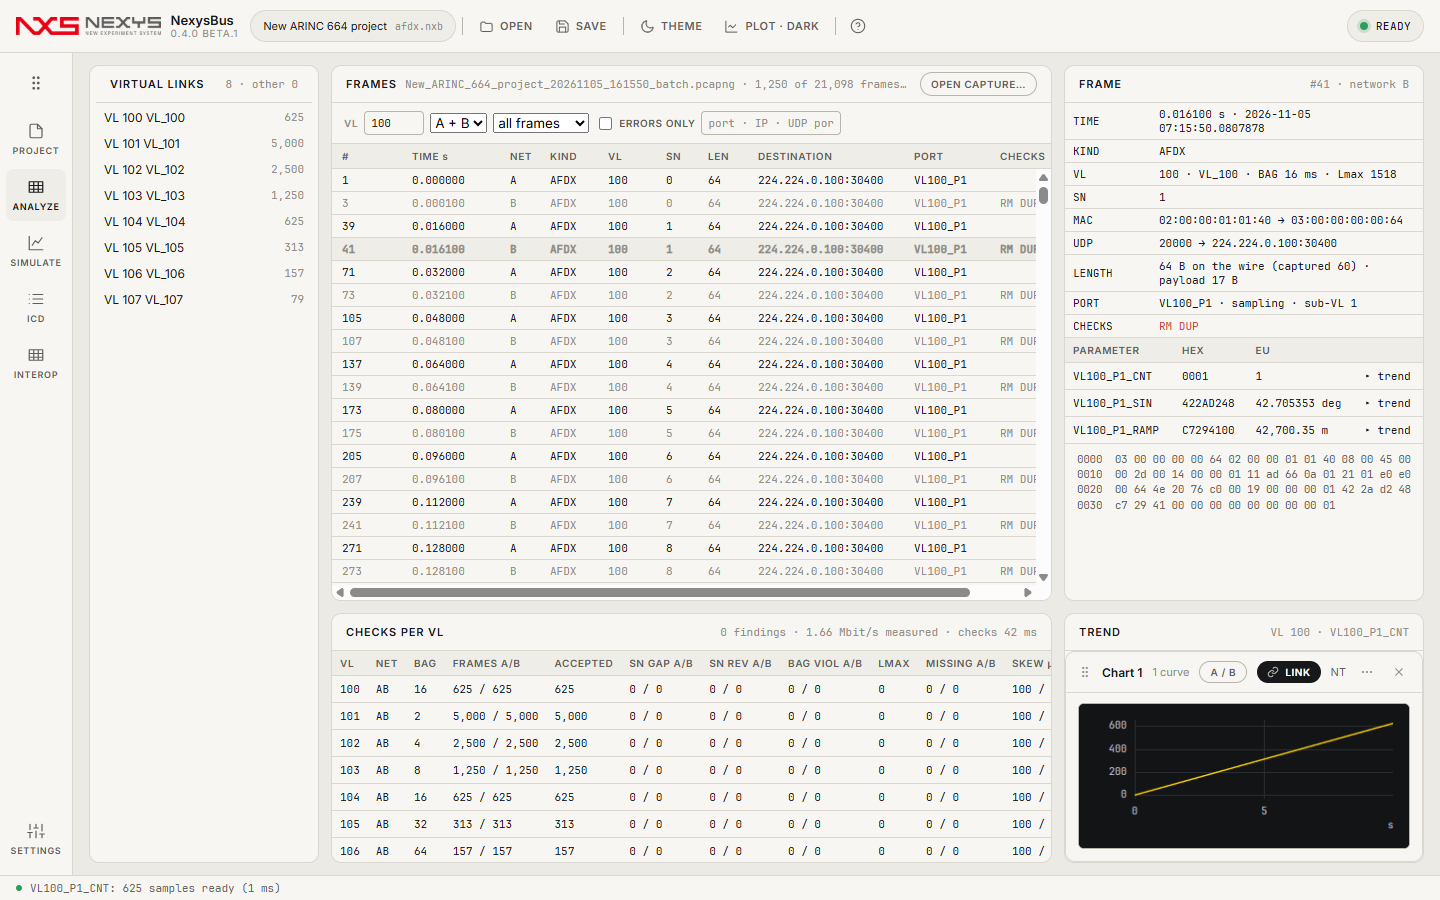
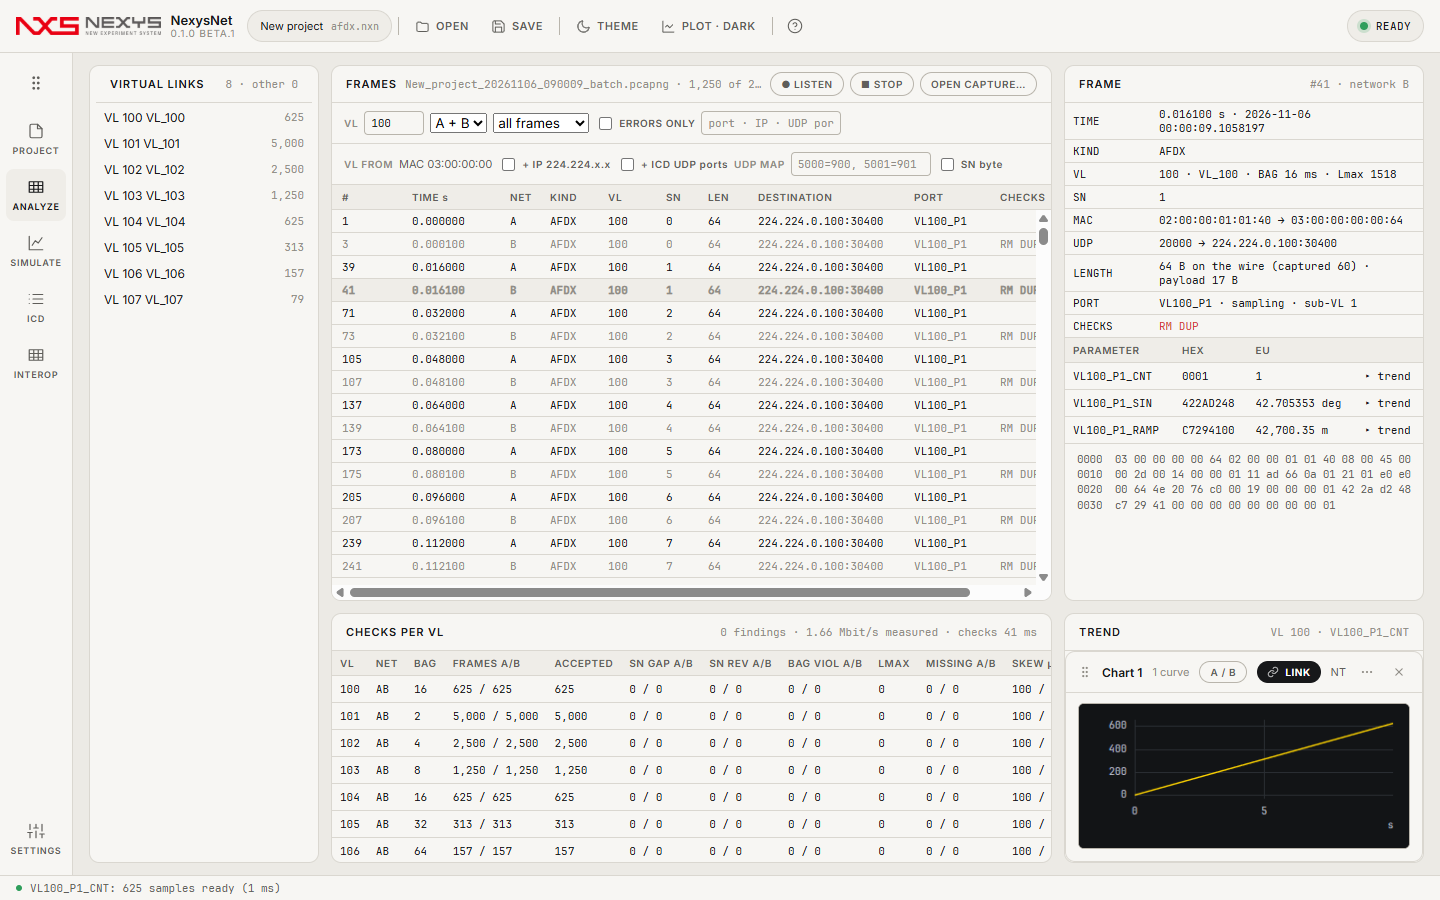
NexysNet name in the INTEROP headers; user-guide screenshots retaken with NexysNet 0.1.0-beta.1
INTEROP card titles read PEER -> NEXYSNET / NEXYSNET -> PEER (were NEXYSBUS); pcapng files
written by NexysNet carry NexysNet as the writing application (core). Guide images 15-23 and
the README project shot come from NexysNet --afdx / --interop / --startmem runs (29/29, 8/8).

diff --git a/app/web/src/afdx.ts b/app/web/src/afdx.ts
@@ -229,9 +229,9 @@ export class AfdxAnalyzePage {
 
 // ============================================================================ INTEROP
 export class AfdxInteropPage {
-  el = h(`<div class="afdx-iop"><section class="card peer"><div class="card-h"><span class="t">PEER → NEXYSBUS · AUTOMATIC</span><span class="m" data-cm></span><div class="acts"><button class="pill h24" data-a="openCap">OPEN CAPTURE…</button><button class="pill h24" data-a="recheck">RE-CHECK</button><button class="pill h24" data-a="wireshark" title="Wireshark profile + dissector for this ICD (VL / SN / network columns, A/B colours, parameter decode)">WIRESHARK PROFILE…</button><button class="pill h24 primary" data-a="export">EXPORT REPORT…</button></div></div>
+  el = h(`<div class="afdx-iop"><section class="card peer"><div class="card-h"><span class="t">PEER → NEXYSNET · AUTOMATIC</span><span class="m" data-cm></span><div class="acts"><button class="pill h24" data-a="openCap">OPEN CAPTURE…</button><button class="pill h24" data-a="recheck">RE-CHECK</button><button class="pill h24" data-a="wireshark" title="Wireshark profile + dissector for this ICD (VL / SN / network columns, A/B colours, parameter decode)">WIRESHARK PROFILE…</button><button class="pill h24 primary" data-a="export">EXPORT REPORT…</button></div></div>
       <div class="errs" data-set></div><div class="scroll"><table class="frame-tbl"><thead><tr><th>#</th><th>CHECK</th><th>VERDICT</th><th>DETAIL</th><th>EVIDENCE</th></tr></thead><tbody data-checks></tbody></table></div></section>
-    <section class="card tx"><div class="card-h"><span class="t">NEXYSBUS → PEER · REPORTED BY THE PEER</span><span class="m" data-tm></span><div class="acts"><button class="pill h24" data-a="peerCsv" title="CSV, one row per VL: vl, rx_a, rx_b, errors, note">IMPORT PEER CSV…</button></div></div><div class="errs"><span class="k">PEER</span><input class="in w200" data-peer="name" placeholder="peer equipment / tool"></div><div class="scroll"><table class="rt-tbl"><thead><tr><th>VL</th><th>NAME</th><th>NET</th><th>SENT A</th><th>SENT B</th><th>INTERVAL ms</th><th>PEER RX A</th><th>PEER RX B</th><th>PEER ERRORS</th><th>NOTE</th><th>VERDICT</th></tr></thead><tbody data-tx></tbody></table></div></section></div>`);
+    <section class="card tx"><div class="card-h"><span class="t">NEXYSNET → PEER · REPORTED BY THE PEER</span><span class="m" data-tm></span><div class="acts"><button class="pill h24" data-a="peerCsv" title="CSV, one row per VL: vl, rx_a, rx_b, errors, note">IMPORT PEER CSV…</button></div></div><div class="errs"><span class="k">PEER</span><input class="in w200" data-peer="name" placeholder="peer equipment / tool"></div><div class="scroll"><table class="rt-tbl"><thead><tr><th>VL</th><th>NAME</th><th>NET</th><th>SENT A</th><th>SENT B</th><th>INTERVAL ms</th><th>PEER RX A</th><th>PEER RX B</th><th>PEER ERRORS</th><th>NOTE</th><th>VERDICT</th></tr></thead><tbody data-tx></tbody></table></div></section></div>`);
   private key = ''; data: any = null;
   constructor() {
     this.el.addEventListener('click', e => {
